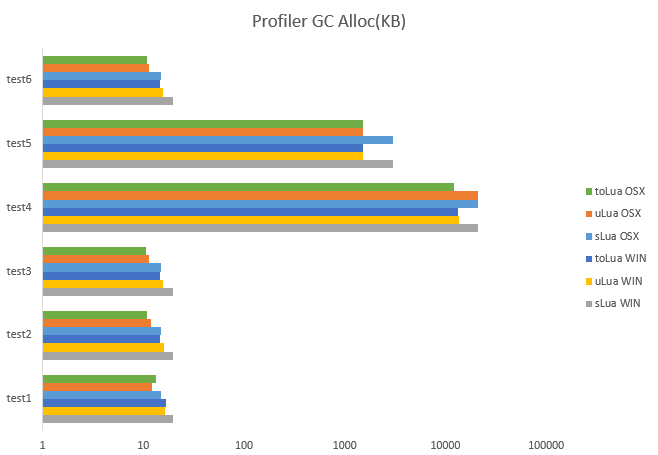
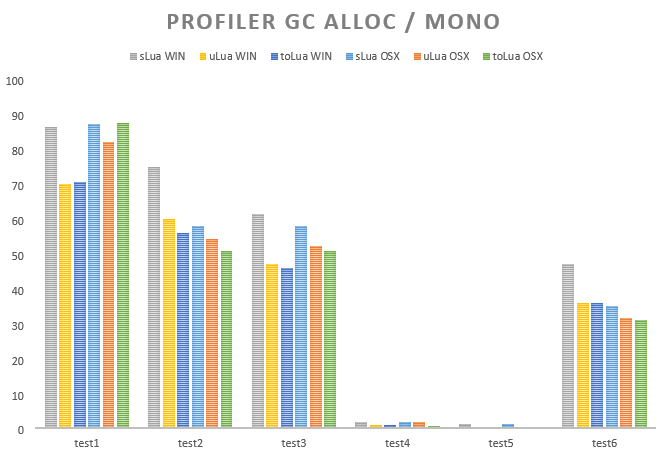
new graph

diff --git a/README.md b/README.md
@@ -8,15 +8,18 @@ A simple test for performance comparsion between Lua in Unity。
 
 TODO: Mesure startup consumption. sLua has a async init so I have to figure out a better way to Profiler.
 
-Images below show test cases as vertical axis, and time or gc alloc in horizonal axis(**Log coordinate**).
+Images below show test cases as vertical axis, and time or gc alloc normalized according to corresponding mono version.
 
-下图纵坐标为测试用例，横坐标是消耗时间或内存分配(**对数坐标**)。
-
-![lua_clock](images/lua_clock.png)
+下图纵坐标为测试用例，以对应Mono版本为单位归一化。
 
 ![profiler_time](images/profiler_time.png)
 
 ![profiler_gc](images/profiler_gc.png)
+
+![lua_clock_win](images/lua_clock_win.png)
+![lua_clock_osx](images/lua_clock_osx.png)
+![lua_clock_android](images/lua_clock_android.png)
+![lua_clock_ios](images/lua_clock_ios.png)
 
 More details can be found in [benchmark.xlsx](benchmark.xlsx).
 
@@ -34,9 +37,9 @@ Based on sLua's performance_test, I modified C# part to take advantage of **Prof
 
 ![profiler](images/profiler.png)
 
-At the same time Lua part has a clock inside. These two mesured time may not be the same.
+At the same time Lua part has a clock inside. These two mesured time may not be the same. Some seems outliers which are colored red.
 
-同时Lua代码部分也有一个计时器。这两个测出来的时间有可能不那么一致。
+同时Lua代码部分也有一个计时器。这两个测出来的时间有可能不那么一致。有些看起来是不太对的点已标红。
 
 ## Benchmark Environment 测试环境
 
@@ -69,6 +72,7 @@ All tests are executed in sequence, only once.
 
 - upgrade to Unity 5.3.4
 - mono version added
+- new normalized graph
 
 ### 1.01 (20160221)
 
